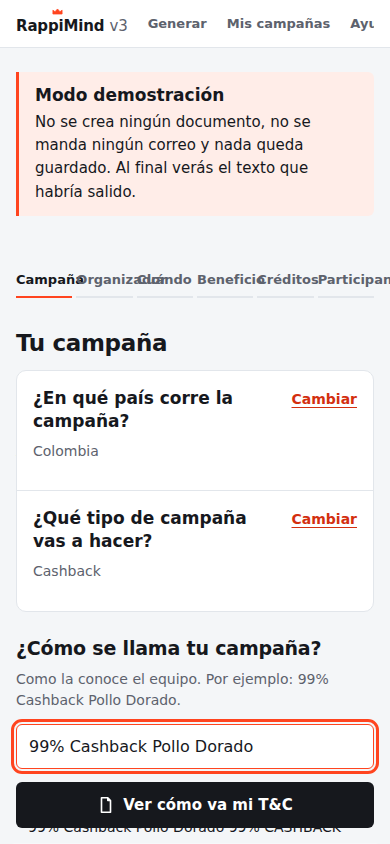
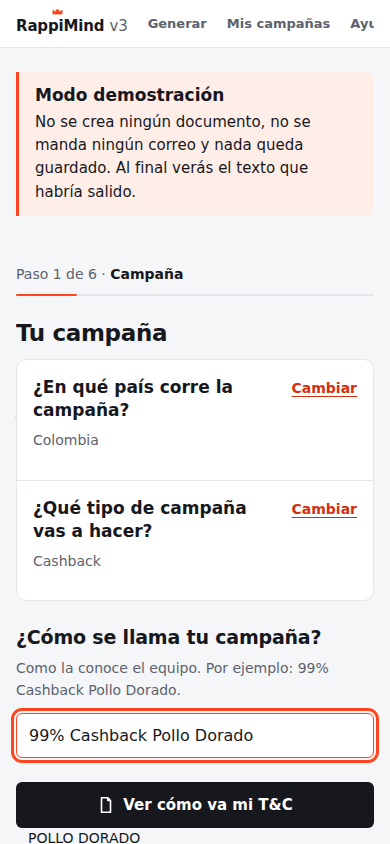
La barra de progreso en celular no cabia
Siete nombres de paso en 390px se encaramaban unos sobre otros y quedaban
ilegibles. En celular ahora se muestra "Paso 2 de 6" con el nombre del paso
actual y una linea que avanza; en escritorio sigue el nombre de cada paso, como
pediste. La hoja de estilos decide cual de los dos se ve.

Capturas de celular regeneradas.

Claude-Session: https://claude.ai/code/session_01JPeH5tHqSmLCECb1t2KBA8

diff --git a/demo/index.html b/demo/index.html
@@ -192,6 +192,8 @@ button { font-size: 15px; cursor: pointer; }
 
 /* --- Barra de progreso -------------------------------------------------- */
 
+.progreso-compacto { display: none; }
+
 .progreso { display: flex; gap: var(--e1); margin: 0 0 var(--e6); list-style: none; padding: 0; }
 .progreso li { flex: 1; min-width: 0; }
 .progreso button {
@@ -434,6 +436,20 @@ input[disabled], select[disabled] { background: var(--niebla); color: var(--bord
   .columna-documento { display: none; }
   h1 { font-size: 23px; }
   .pregunta-titulo { font-size: 19px; }
+  .progreso { display: none; }
+  .progreso-compacto {
+    display: block; margin: 0 0 var(--e5); font-size: 14px; color: var(--gris-lapiz);
+  }
+  .progreso-compacto strong { color: var(--tinta); font-family: var(--titulos); font-weight: 600; }
+  .progreso-linea {
+    display: block; height: 2px; margin-top: var(--e2);
+    background: var(--borde); border-radius: 1px; position: relative;
+  }
+  .progreso-linea::before {
+    content: ''; position: absolute; inset: 0 auto 0 0;
+    width: var(--avance); background: var(--naranja-marca); border-radius: 1px;
+  }
+
   .barra-superior { padding: var(--e2) var(--e4); gap: var(--e3); }
   .marca { font-size: 15px; white-space: nowrap; flex: none; }
   .marca .corona { width: 11px; left: 36px; }
@@ -5731,8 +5747,29 @@ function calculadora() {
   return crear('div', { clase: 'aviso' }, lineas);
 }
 
-/** Barra de progreso con el nombre de cada paso. */
+/**
+ * Barra de progreso.
+ *
+ * En escritorio va el nombre de cada paso. En celular no caben siete nombres
+ * sin encaramarse uno sobre otro, así que se muestra "Paso 2 de 7" con el
+ * nombre del actual y una línea que avanza. La hoja de estilos decide cuál de
+ * los dos se ve.
+ */
 function barraDeProgreso(pasos) {
+  var compacta = crear('p', { clase: 'progreso-compacto' }, [
+    crear('span', { clase: 'progreso-cuenta', texto: 'Paso ' + (E.pasoActual + 1) + ' de ' + pasos.length }),
+    document.createTextNode(' \u00B7 '),
+    crear('strong', { texto: pasos[E.pasoActual].nombre }),
+    crear('span', {
+      clase: 'progreso-linea',
+      role: 'progressbar',
+      'aria-valuenow': String(E.pasoActual + 1),
+      'aria-valuemin': '1',
+      'aria-valuemax': String(pasos.length),
+      style: '--avance: ' + Math.round(((E.pasoActual + 1) / pasos.length) * 100) + '%',
+    }),
+  ]);
+
   var lista = crear('ol', { clase: 'progreso' });
   for (var i = 0; i < pasos.length; i++) {
     (function (paso, indice) {
@@ -5747,7 +5784,7 @@ function barraDeProgreso(pasos) {
       ]));
     })(pasos[i], i);
   }
-  return lista;
+  return crear('div', {}, [compacta, lista]);
 }
 
 /** La columna del documento. */

diff --git a/src/client/js/62-pasos.js b/src/client/js/62-pasos.js
@@ -141,8 +141,29 @@ function calculadora() {
   return crear('div', { clase: 'aviso' }, lineas);
 }
 
-/** Barra de progreso con el nombre de cada paso. */
+/**
+ * Barra de progreso.
+ *
+ * En escritorio va el nombre de cada paso. En celular no caben siete nombres
+ * sin encaramarse uno sobre otro, así que se muestra "Paso 2 de 7" con el
+ * nombre del actual y una línea que avanza. La hoja de estilos decide cuál de
+ * los dos se ve.
+ */
 function barraDeProgreso(pasos) {
+  var compacta = crear('p', { clase: 'progreso-compacto' }, [
+    crear('span', { clase: 'progreso-cuenta', texto: 'Paso ' + (E.pasoActual + 1) + ' de ' + pasos.length }),
+    document.createTextNode(' \u00B7 '),
+    crear('strong', { texto: pasos[E.pasoActual].nombre }),
+    crear('span', {
+      clase: 'progreso-linea',
+      role: 'progressbar',
+      'aria-valuenow': String(E.pasoActual + 1),
+      'aria-valuemin': '1',
+      'aria-valuemax': String(pasos.length),
+      style: '--avance: ' + Math.round(((E.pasoActual + 1) / pasos.length) * 100) + '%',
+    }),
+  ]);
+
   var lista = crear('ol', { clase: 'progreso' });
   for (var i = 0; i < pasos.length; i++) {
     (function (paso, indice) {
@@ -157,7 +178,7 @@ function barraDeProgreso(pasos) {
       ]));
     })(pasos[i], i);
   }
-  return lista;
+  return crear('div', {}, [compacta, lista]);
 }
 
 /** La columna del documento. */

diff --git a/src/client/estilos.css b/src/client/estilos.css
@@ -171,6 +171,8 @@ button { font-size: 15px; cursor: pointer; }
 
 /* --- Barra de progreso -------------------------------------------------- */
 
+.progreso-compacto { display: none; }
+
 .progreso { display: flex; gap: var(--e1); margin: 0 0 var(--e6); list-style: none; padding: 0; }
 .progreso li { flex: 1; min-width: 0; }
 .progreso button {
@@ -413,6 +415,20 @@ input[disabled], select[disabled] { background: var(--niebla); color: var(--bord
   .columna-documento { display: none; }
   h1 { font-size: 23px; }
   .pregunta-titulo { font-size: 19px; }
+  .progreso { display: none; }
+  .progreso-compacto {
+    display: block; margin: 0 0 var(--e5); font-size: 14px; color: var(--gris-lapiz);
+  }
+  .progreso-compacto strong { color: var(--tinta); font-family: var(--titulos); font-weight: 600; }
+  .progreso-linea {
+    display: block; height: 2px; margin-top: var(--e2);
+    background: var(--borde); border-radius: 1px; position: relative;
+  }
+  .progreso-linea::before {
+    content: ''; position: absolute; inset: 0 auto 0 0;
+    width: var(--avance); background: var(--naranja-marca); border-radius: 1px;
+  }
+
   .barra-superior { padding: var(--e2) var(--e4); gap: var(--e3); }
   .marca { font-size: 15px; white-space: nowrap; flex: none; }
   .marca .corona { width: 11px; left: 36px; }
